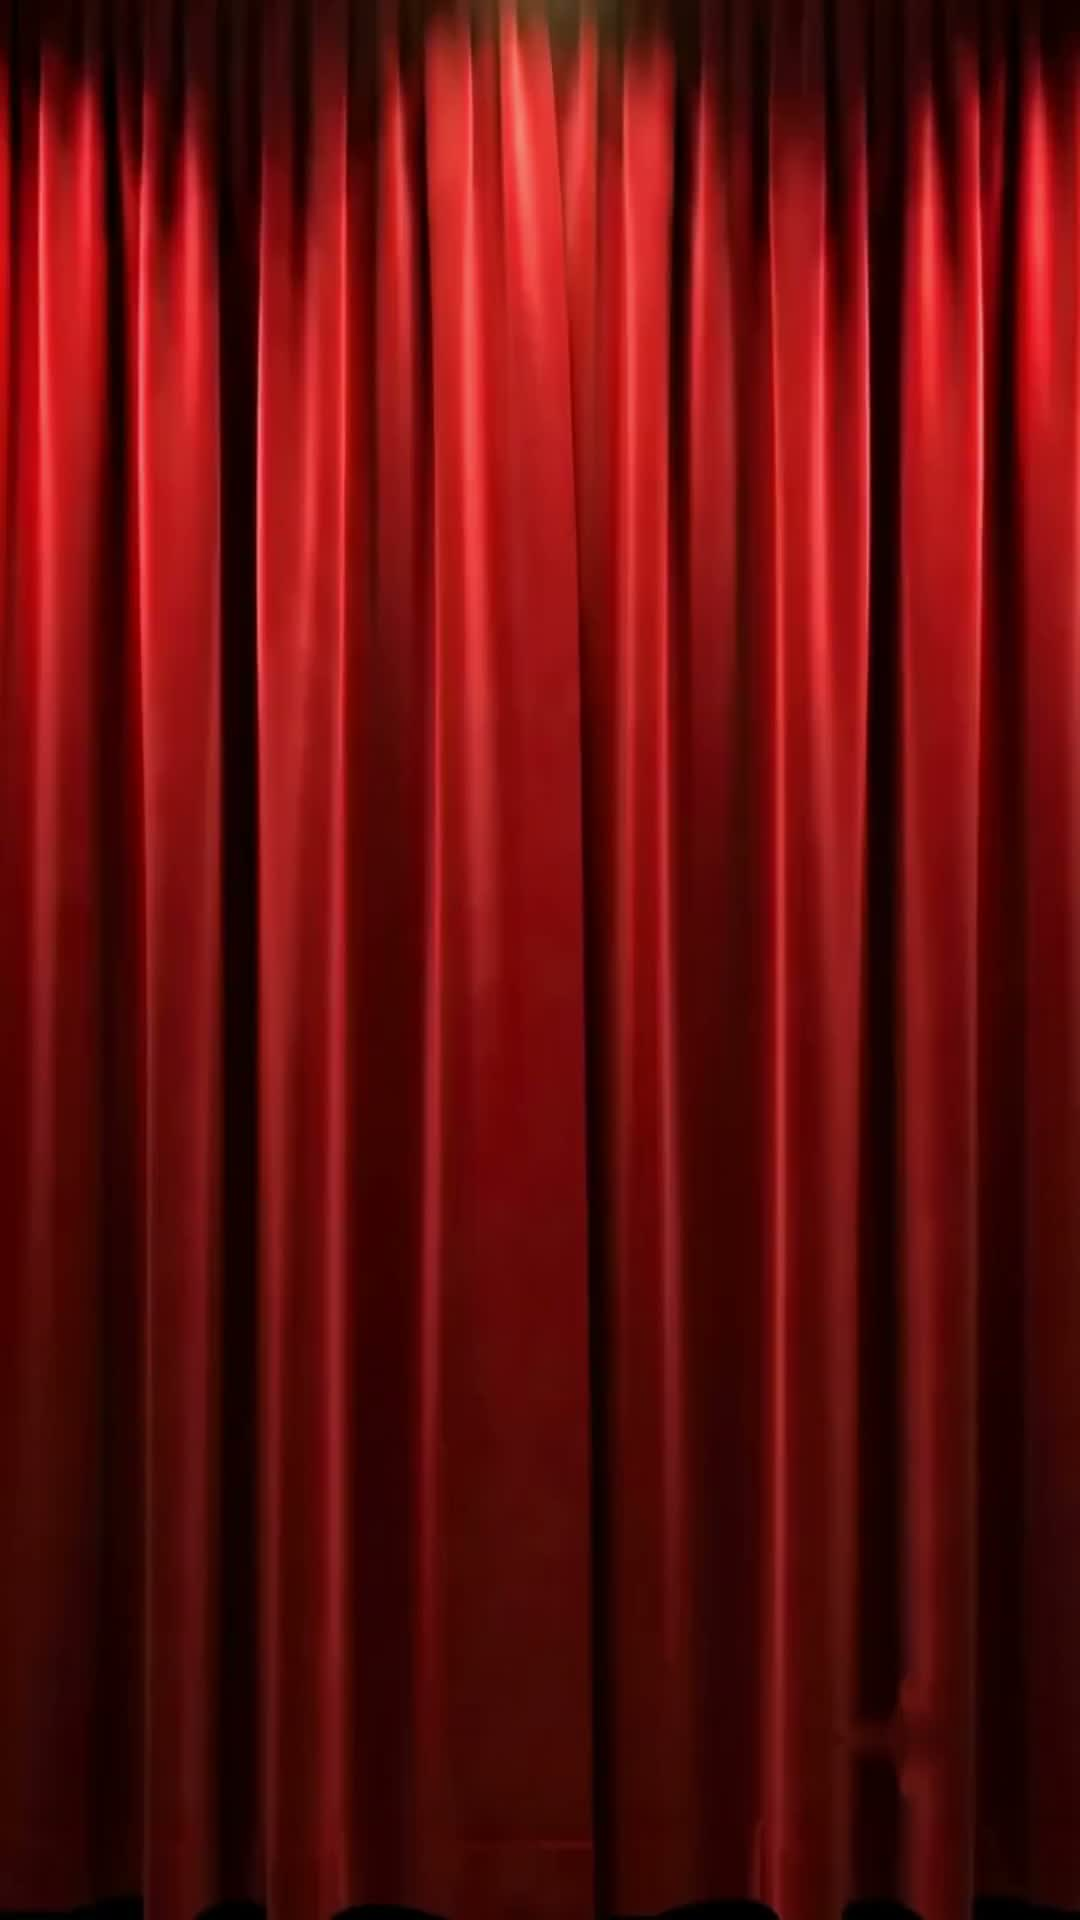
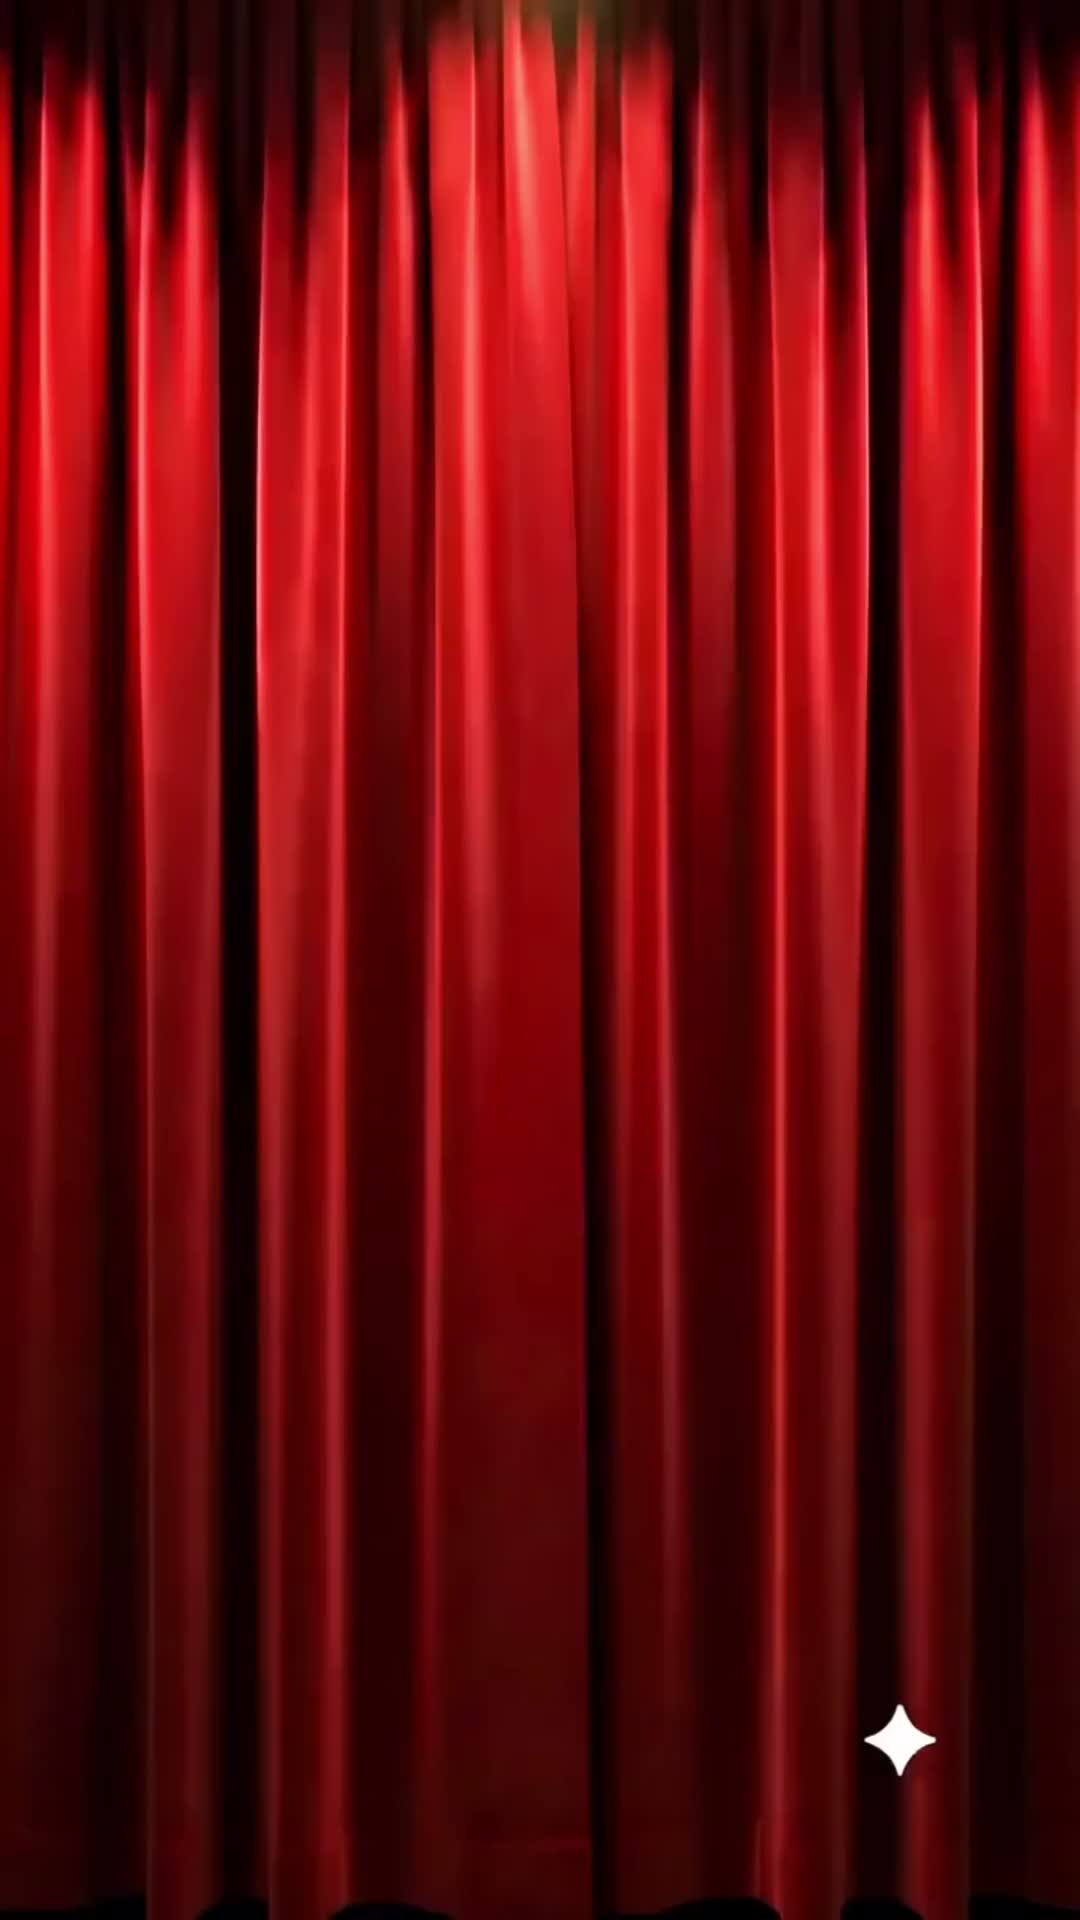
feat: updated video+card with 1 July dates, H.264+audio, pause at 4s, 6.3MB

diff --git a/src/routes/index.tsx b/src/routes/index.tsx
@@ -459,7 +459,7 @@ function CurtainRevealAct({ videoRef, videoReady }: { videoRef: RefObject<HTMLVi
   const handleTimeUpdate = () => {
     const vid = videoRef.current;
     if (!vid) return;
-    if (phase === "playing" && vid.currentTime >= 3) {
+    if (phase === "playing" && vid.currentTime >= 4) {
       vid.pause();
       setPhase("paused-ribbon");
     }
@@ -495,7 +495,6 @@ function CurtainRevealAct({ videoRef, videoReady }: { videoRef: RefObject<HTMLVi
           src="/curtainsrevealingvideo.mp4"
           poster="/curtains-poster.jpg"
           playsInline
-          muted
           preload="auto"
           onTimeUpdate={handleTimeUpdate}
           onEnded={handleEnded}